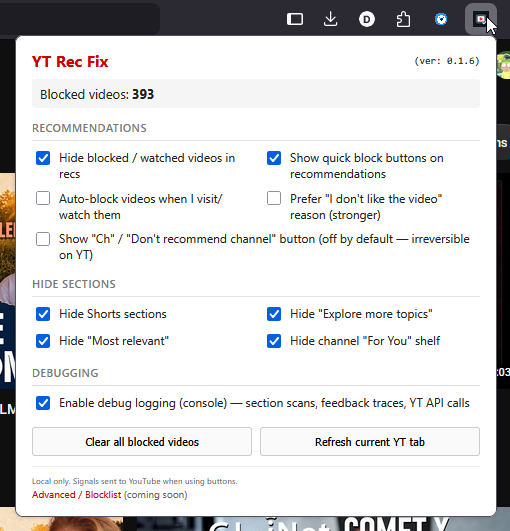
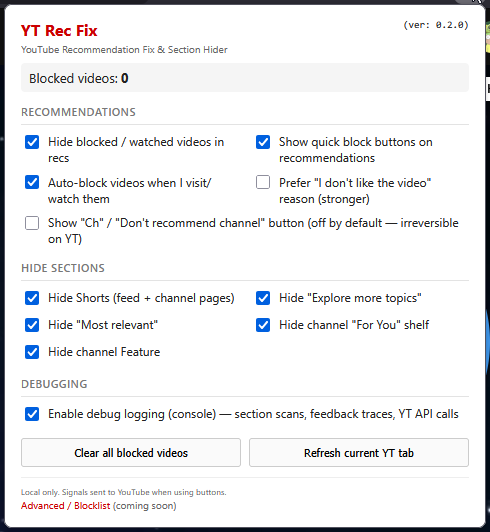
Add privacy policy and Chrome build support for Web Store submission
- Add PRIVACY.md (canonical policy; mirrored on danne.lindskog.eu)
- Add build:firefox and build:chrome scripts with dual-package output
- Shorten manifest description to fit Chrome Web Store 132-char limit
- Update popup screenshot asset for v0.2.0

Changed region(s): [[0.0, 0.0, 1.0, 1.0], [0.5204, 0.5424, 0.8878, 0.6629]]

diff --git a/PRIVACY.md b/PRIVACY.md
@@ -1,0 +1,102 @@
+# YT Rec Fix — Privacy Policy
+
+**Last updated:** 2026-06-25  
+**Applies to:** YT Rec Fix browser extension (Firefox and Chrome), version 0.2.0 and later.
+
+**Also published at:** https://danne.lindskog.eu/yt-rec-fix/#privacy-heading
+
+---
+
+## Summary
+
+YT Rec Fix runs entirely in your browser on YouTube pages you already have open. Blocklist, settings, and section-hide preferences are stored locally on your device. Normal browsing on YouTube is handled by your browser and YouTube — not by data collection performed by this extension.
+
+Network activity is limited to normal YouTube requests triggered by automated UI actions **when you click Watched, Dislike, or Ch** — the same actions as using YouTube's own menus.
+
+There is **no analytics**, **no external servers operated by the developer**, and **no accounts**.
+
+---
+
+## What we store (locally only)
+
+When you block videos or change settings, YT Rec Fix saves the following in your browser's local extension storage (`browser.storage.local` / `chrome.storage.local`):
+
+- Blocked video IDs and optional channel keys for the local blocklist
+- Extension settings (hide blocked videos, inject buttons, auto-block on watch, prefer dislike reason, optional Ch button)
+- Section-hide toggles (Shorts, Explore more topics, Most relevant, channel For You, channel Feature)
+- Debug mode preference
+
+This data **never leaves your browser** through YT Rec Fix. It is not transmitted to the developer or to any third-party service operated by the developer.
+
+---
+
+## What we do not collect
+
+YT Rec Fix does **not** collect, store, or transmit to the developer:
+
+- Personal identifying information (name, email, address, etc.)
+- Browsing history outside what you already do on YouTube in your browser
+- Authentication credentials
+- Financial or payment information
+- Health information
+- Location data
+- Analytics or usage telemetry
+
+The developer cannot see your blocklist, settings, or YouTube activity.
+
+---
+
+## Network activity
+
+The extension does not add its own backend or proxy. The only network requests related to extension actions are normal YouTube requests that occur when you use the feedback buttons (Watched / Dislike / Ch) — equivalent to using YouTube's native "Not interested" flow yourself.
+
+---
+
+## Your control
+
+You can at any time:
+
+- Clear all blocked videos from the toolbar popup
+- Toggle any feature off in the popup
+- Uninstall the extension
+- Clear extension data in your browser settings to remove stored blocklist and settings
+
+---
+
+## Permissions
+
+| Permission | Why it is needed |
+|---|---|
+| `storage` | Save blocklist and settings on your device only |
+| `activeTab` | Refresh the current YouTube tab from the popup when you request it |
+| `tabs` | Find and reload the active YouTube tab from the popup (e.g. after granting site access) |
+| `https://www.youtube.com/*` (host) | Run on YouTube to inject buttons, hide blocked cards, and hide optional page sections |
+
+**Firefox:** `data_collection_permissions` is set to **none** in the extension manifest.
+
+**Chrome:** Host access is declared as `host_permissions` for `https://www.youtube.com/*` only. No other sites are accessed.
+
+---
+
+## Third parties
+
+YT Rec Fix is **not affiliated with, endorsed by, or supported by Google LLC or YouTube**. The extension does not use the YouTube API. YouTube's own privacy policy applies to your use of youtube.com.
+
+---
+
+## Children's privacy
+
+YT Rec Fix is not directed at children under 13 and does not knowingly collect personal information from anyone.
+
+---
+
+## Changes to this policy
+
+If this policy changes, the "Last updated" date above will be revised. Material changes will be reflected in store listings before updates when practical.
+
+---
+
+## Contact
+
+- **Issues / questions:** https://github.com/Waymoot/yt-rec-fix/issues
+- **Source code:** https://github.com/Waymoot/yt-rec-fix